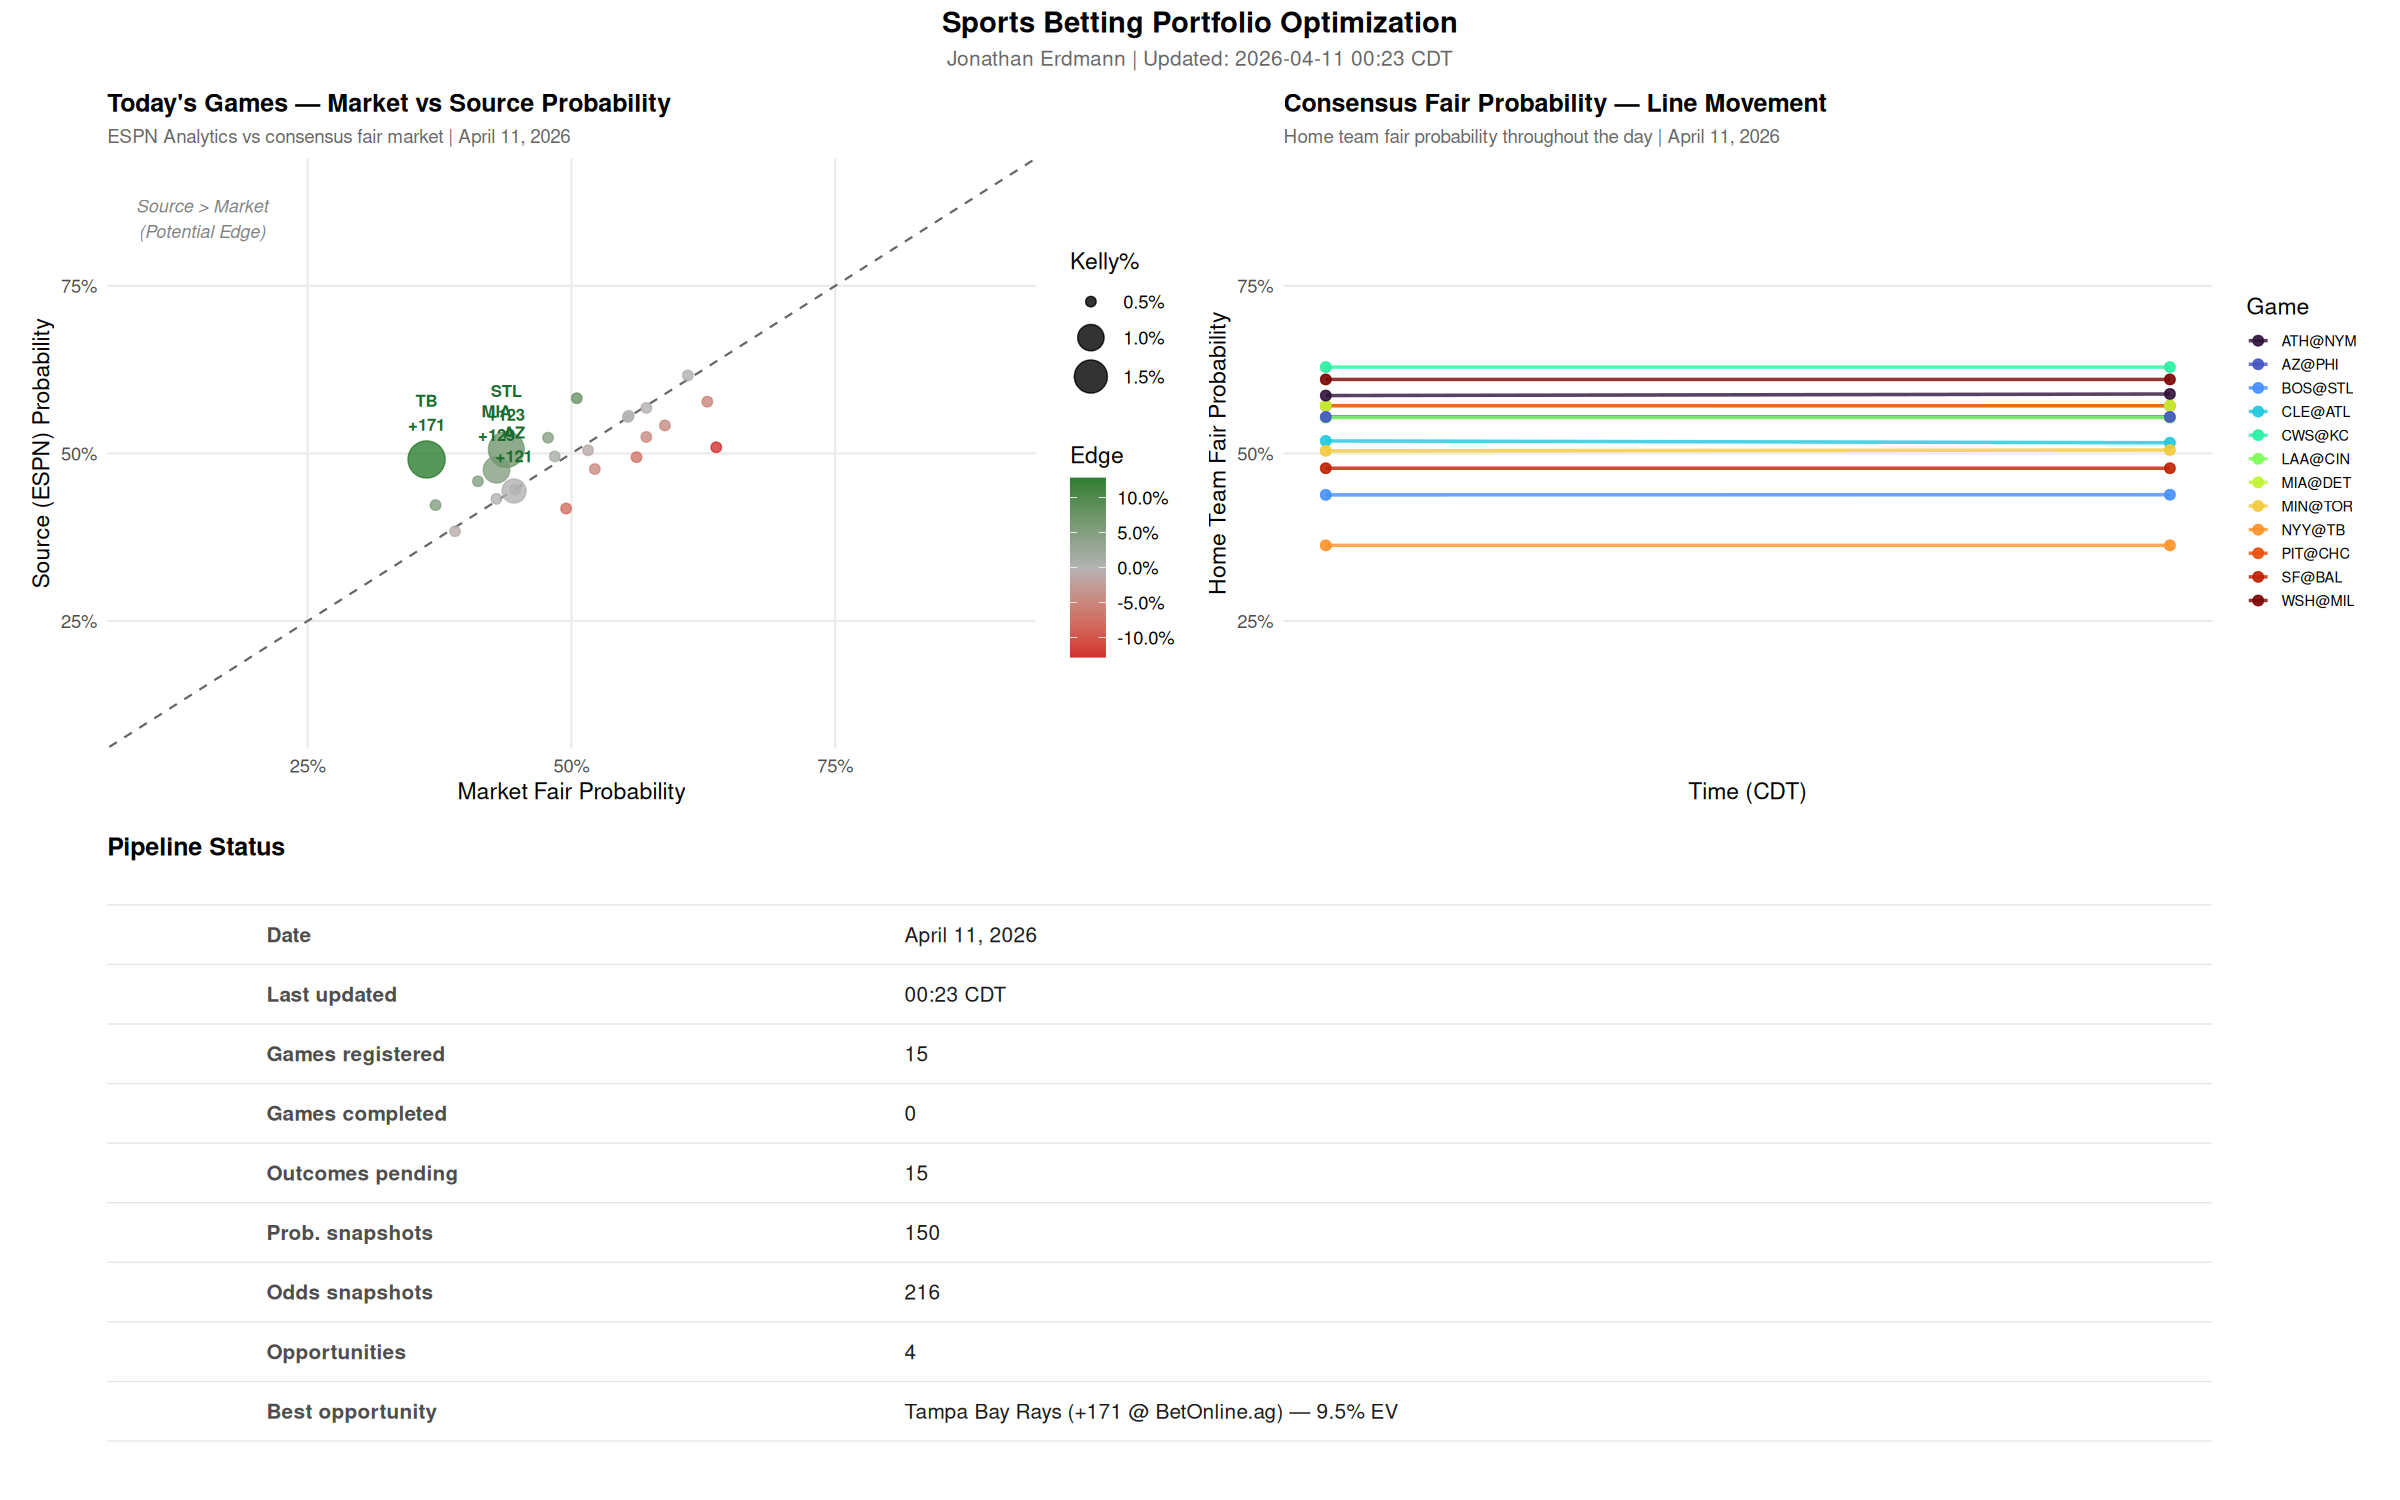
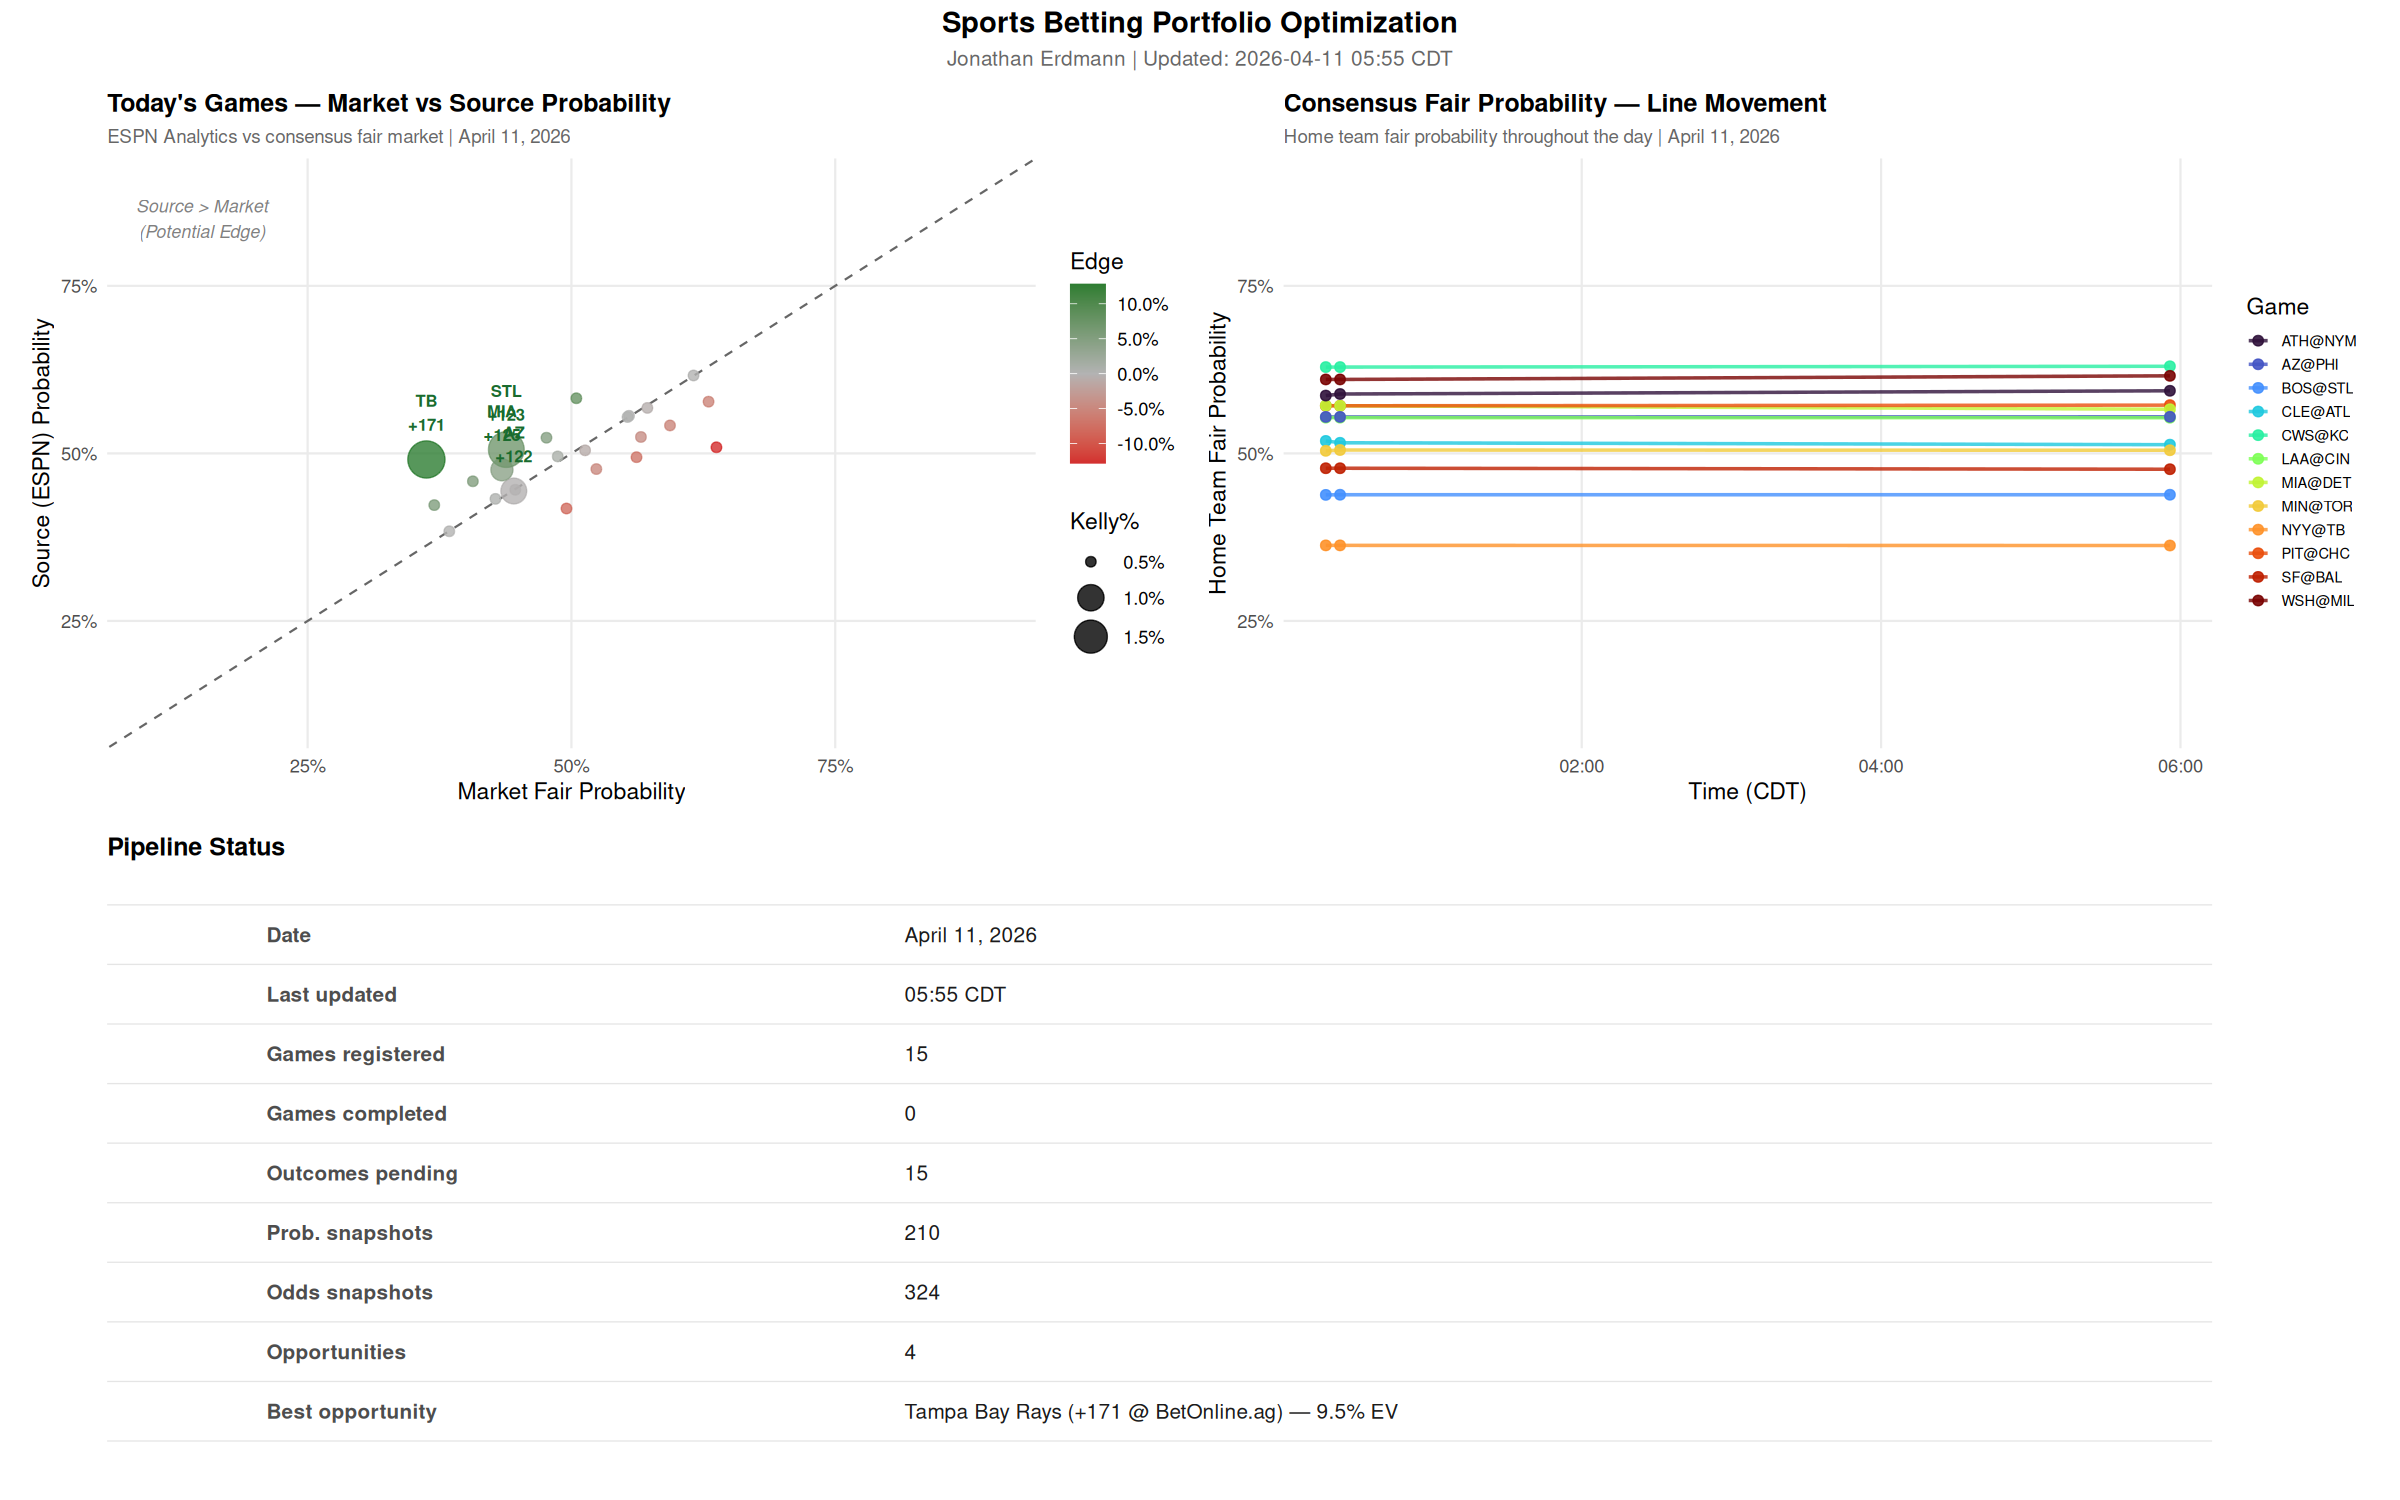
Update dashboard: 2026-04-11 05:55

Changed region(s): [[0.5312, 0.2453, 0.9062, 0.3067], [0.4375, 0.1533, 0.5, 0.46], [0.1875, 0.276, 0.2188, 0.3373]]

diff --git a/projects/portfolio-optimization/dashboard.md b/projects/portfolio-optimization/dashboard.md
@@ -6,7 +6,7 @@ permalink: /projects/portfolio-optimization/dashboard/
 
 ## Daily Pipeline Dashboard
 
-**Last updated:** April 11, 2026 00:23 CDT
+**Last updated:** April 11, 2026 05:55 CDT
 
 ---
 
@@ -14,10 +14,10 @@ permalink: /projects/portfolio-optimization/dashboard/
 
 | Team | ML | Market% | Posterior% | EV% | Kelly% | Bet by | Book |
 |---|---|---|---|---|---|---|---|
-| Tampa Bay Rays | +171 | 36.3% | 40.4% | 9.5% | 1.39% | 15:10 CDT | BetOnline.ag |
-| St. Louis Cardinals | +123 | 43.8% | 47.6% | 6.1% | 1.24% | 16:15 CDT | LowVig.ag |
-| Miami Marlins | +129 | 42.9% | 44.8% | 2.6% | 0.50% | 10:10 CDT | LowVig.ag |
-| Arizona Diamondbacks | +121 | 44.6% | 46.0% | 1.8% | 0.37% | 10:05 CDT | BetOnline.ag |
+| Tampa Bay Rays | +171 | 36.3% | 40.4% | 9.5% | 1.40% | 15:10 CDT | BetOnline.ag |
+| St. Louis Cardinals | +123 | 43.8% | 47.6% | 6.1% | 1.25% | 16:15 CDT | LowVig.ag |
+| Arizona Diamondbacks | +122 | 44.5% | 46.1% | 2.2% | 0.46% | 10:05 CDT | BetOnline.ag |
+| Miami Marlins | +125 | 43.4% | 45.0% | 1.3% | 0.26% | 10:10 CDT | LowVig.ag |
 
 ---
 
